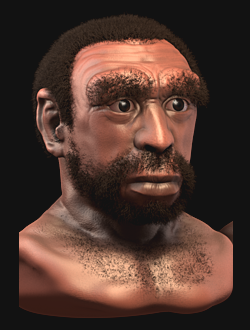
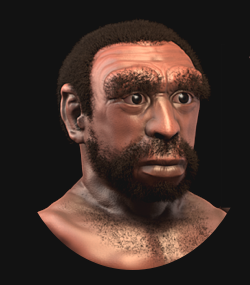
Edit top row images

diff --git a/index.html b/index.html
@@ -161,7 +161,7 @@
         </div>
 
         <div class="col-xs-offset-2 col-xs-5">
-          <img class="portrait" src="img/homo-erectus.png" width="220" height="261" alt="Homo erectus reconstruction">
+          <img class="portrait" src="img/homo-erectus.png" alt="Homo erectus reconstruction">
         </div>
 
         <div class="col-xs-10">
@@ -176,7 +176,7 @@
         </div>
 
         <div class="col-xs-offset-2 col-xs-5">
-          <img class="portrait homo-heidelbergensis" src="img/homo-heidelbergensis.png" width="250" height="330">
+          <img class="portrait" src="img/homo-heidelbergensis.png" alt="Homo heidelbergensis reconstruction">
         </div>
 
         <div class="col-xs-10">

diff --git a/styles/sass/style.scss b/styles/sass/style.scss
@@ -292,16 +292,15 @@ body {
   top: 0;
 }
 
-//TODO: crop and reposition the image
-.homo-heidelbergensis {
-  position: absolute;
-  top: 45px;
+.portrait {
+  margin-top: 45px;
+  max-width: 250px;
+  max-height: 285px;
 }
 
 .minimap {
   height: $minimap-height;
   background-color: #444;
-//TODO: hide side shadow between the intro & main parts
   box-shadow: inset 0 1.5px 0px 0 rgba(0,0,0,.3);
   display: flex;
   flex-direction: column-reverse;

diff --git a/styles/css/style.css b/styles/css/style.css
@@ -24340,9 +24340,10 @@ body {
   position: absolute;
   top: 0; }
 
-.homo-heidelbergensis {
-  position: absolute;
-  top: 45px; }
+.portrait {
+  margin-top: 45px;
+  max-width: 250px;
+  max-height: 285px; }
 
 .minimap {
   height: 40px;
